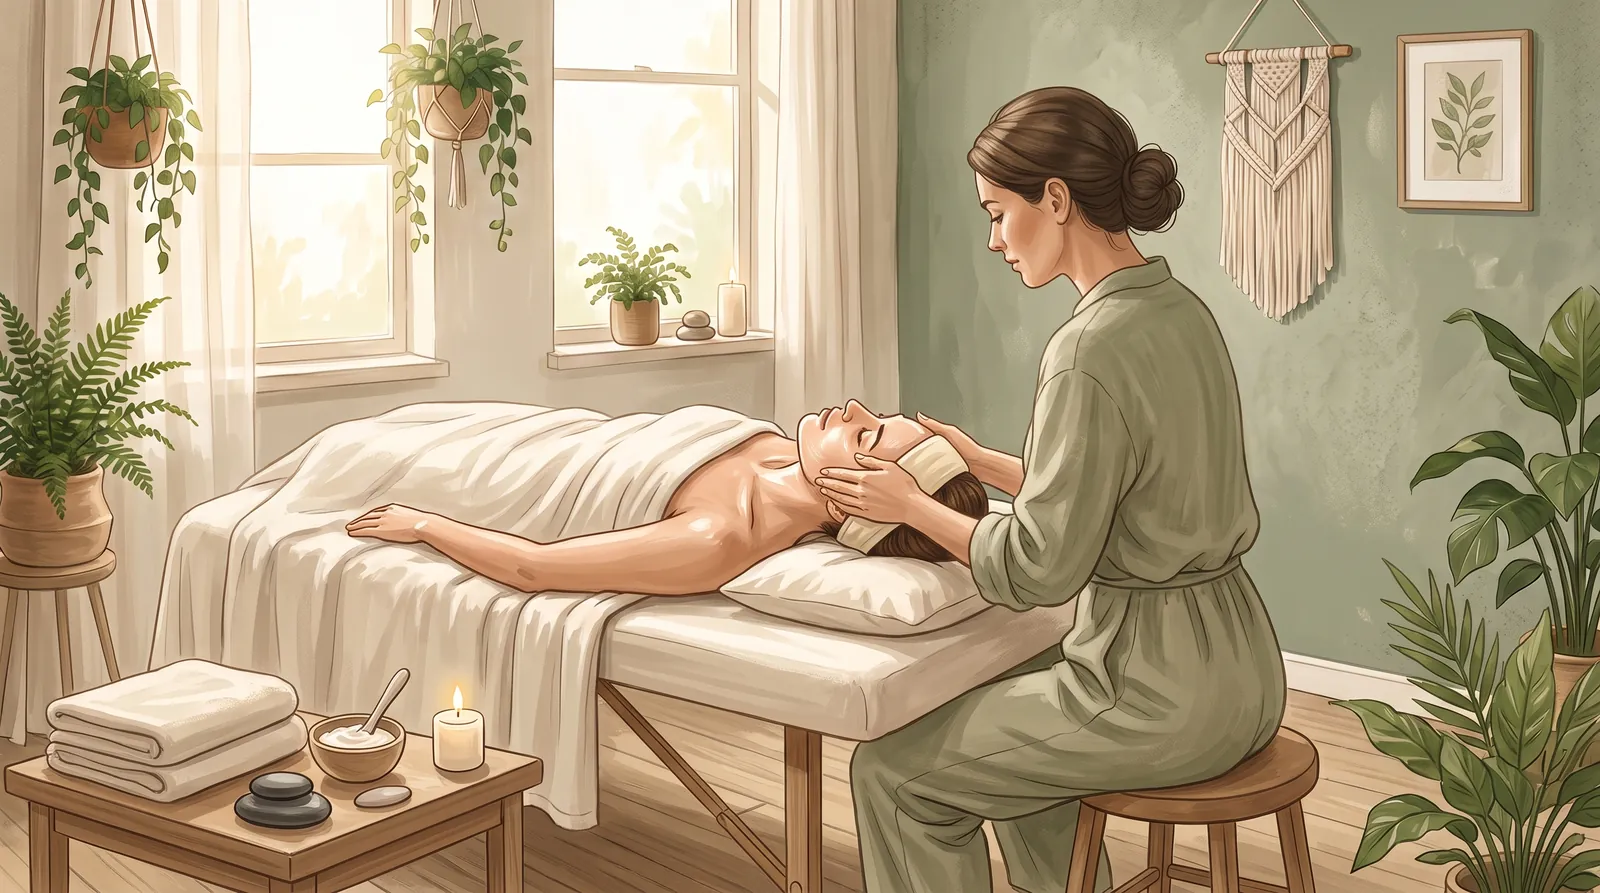
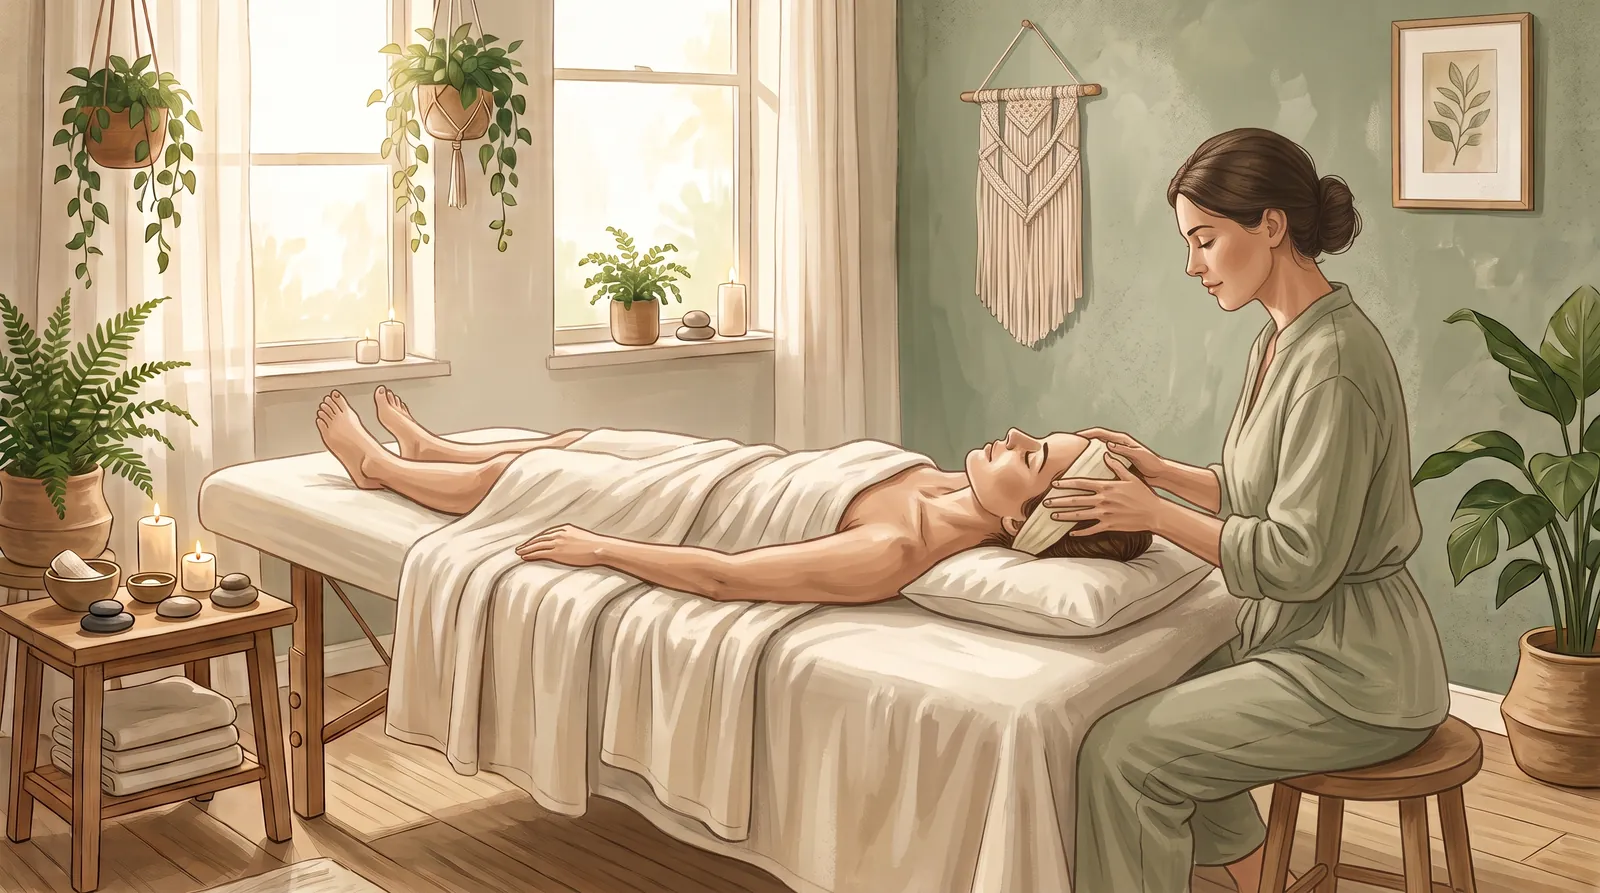
feat(REL-29): use the final illustrations for the two new services

diff --git a/src/data/services.js b/src/data/services.js
@@ -254,20 +254,17 @@ export const services = [
         name: "Masaje craneofacial",
         description:
           "Maniobras suaves en cuero cabelludo, frente, sienes, mandíbula y cuello para soltar la tensión y el cansancio del rostro.",
-        benefits: [
-          "Alivia la tensión de cabeza y rostro",
-          "Relaja la mandíbula",
-        ],
+        benefits: ["Alivia la tensión", "Relaja la mandíbula"],
         imageAlt:
-          "Terapeuta dando un masaje craneofacial a una persona recostada, con las manos sobre sus sienes y su frente",
+          "Terapeuta sentada junto a la cabecera de una persona recostada, dándole un masaje craneofacial con las manos sobre su frente y sus sienes",
       },
       en: {
         name: "Craniofacial massage",
         description:
           "Gentle techniques on the scalp, forehead, temples, jaw and neck to release tension and facial fatigue.",
-        benefits: ["Eases head and face tension", "Relaxes the jaw"],
+        benefits: ["Eases tension", "Relaxes the jaw"],
         imageAlt:
-          "Therapist giving a craniofacial massage to a reclining person, with her hands on their temples and forehead",
+          "Therapist seated at the head of a reclining person, giving a craniofacial massage with her hands on their forehead and temples",
       },
     },
   },
@@ -284,7 +281,7 @@ export const services = [
           "Presión suave sobre puntos específicos de pies y manos para promover la relajación y el bienestar general.",
         benefits: ["Promueve la relajación", "Alivia el cansancio"],
         imageAlt:
-          "Terapeuta aplicando presión con los pulgares en la planta del pie de una persona recostada, en una sesión de reflexología",
+          "Terapeuta sentada al pie de la camilla masajeando con ambas manos la planta del pie de una persona recostada, en una sesión de reflexología",
       },
       en: {
         name: "Foot and hand reflexology",
@@ -292,7 +289,7 @@ export const services = [
           "Gentle pressure on specific points of the feet and hands to promote relaxation and overall well-being.",
         benefits: ["Promotes relaxation", "Eases tiredness"],
         imageAlt:
-          "Therapist pressing with her thumbs on the sole of a reclining person's foot during a reflexology session",
+          "Therapist seated at the foot of the massage table massaging the sole of a reclining person's foot with both hands during a reflexology session",
       },
     },
   },
